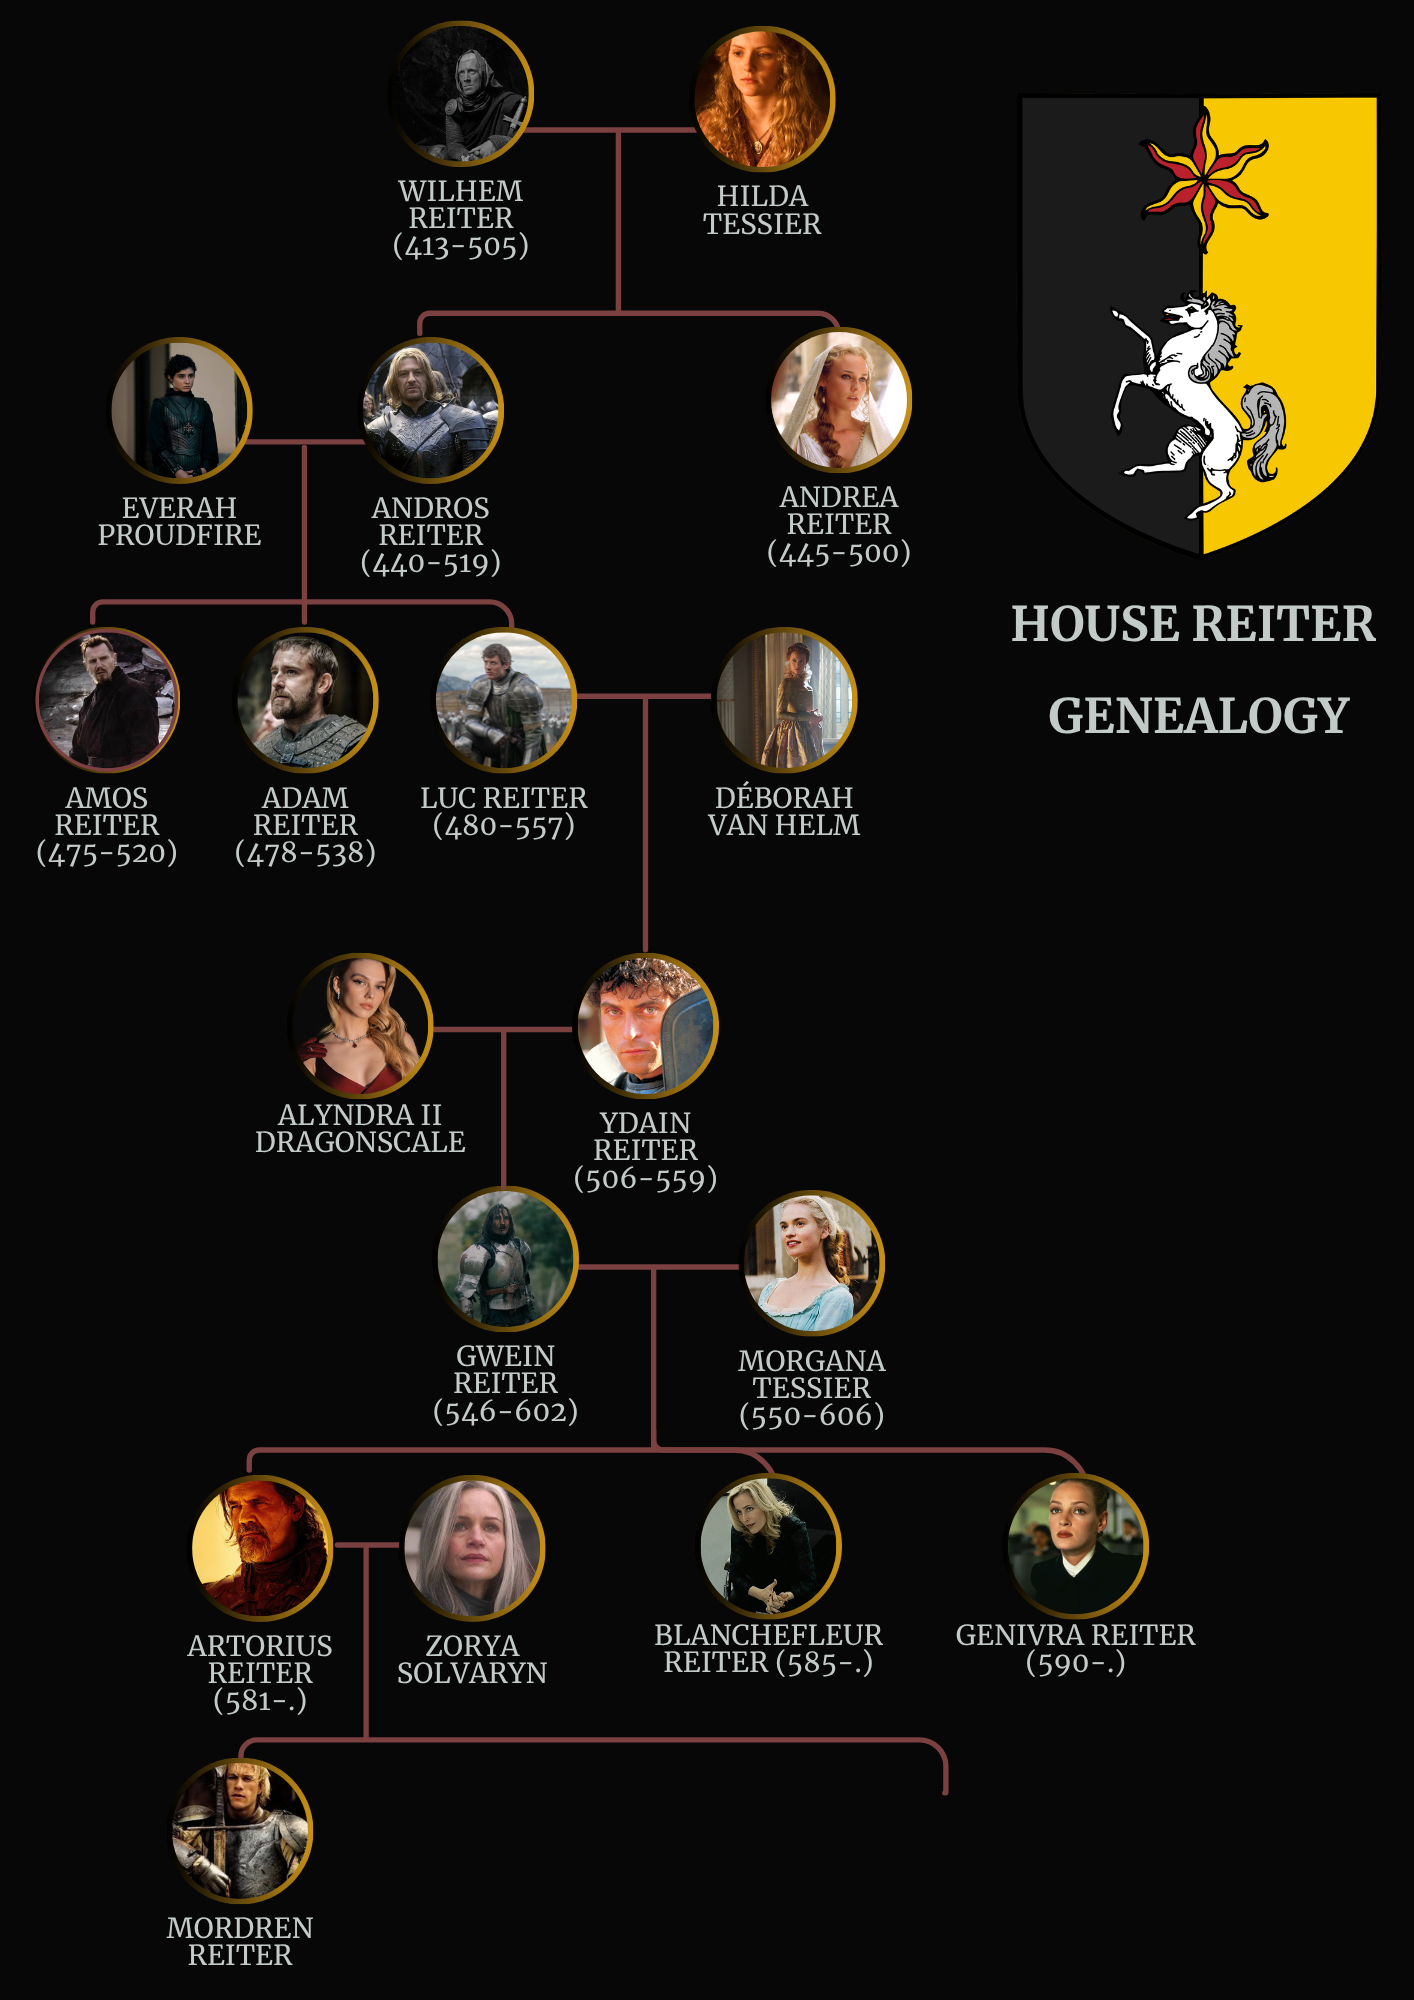
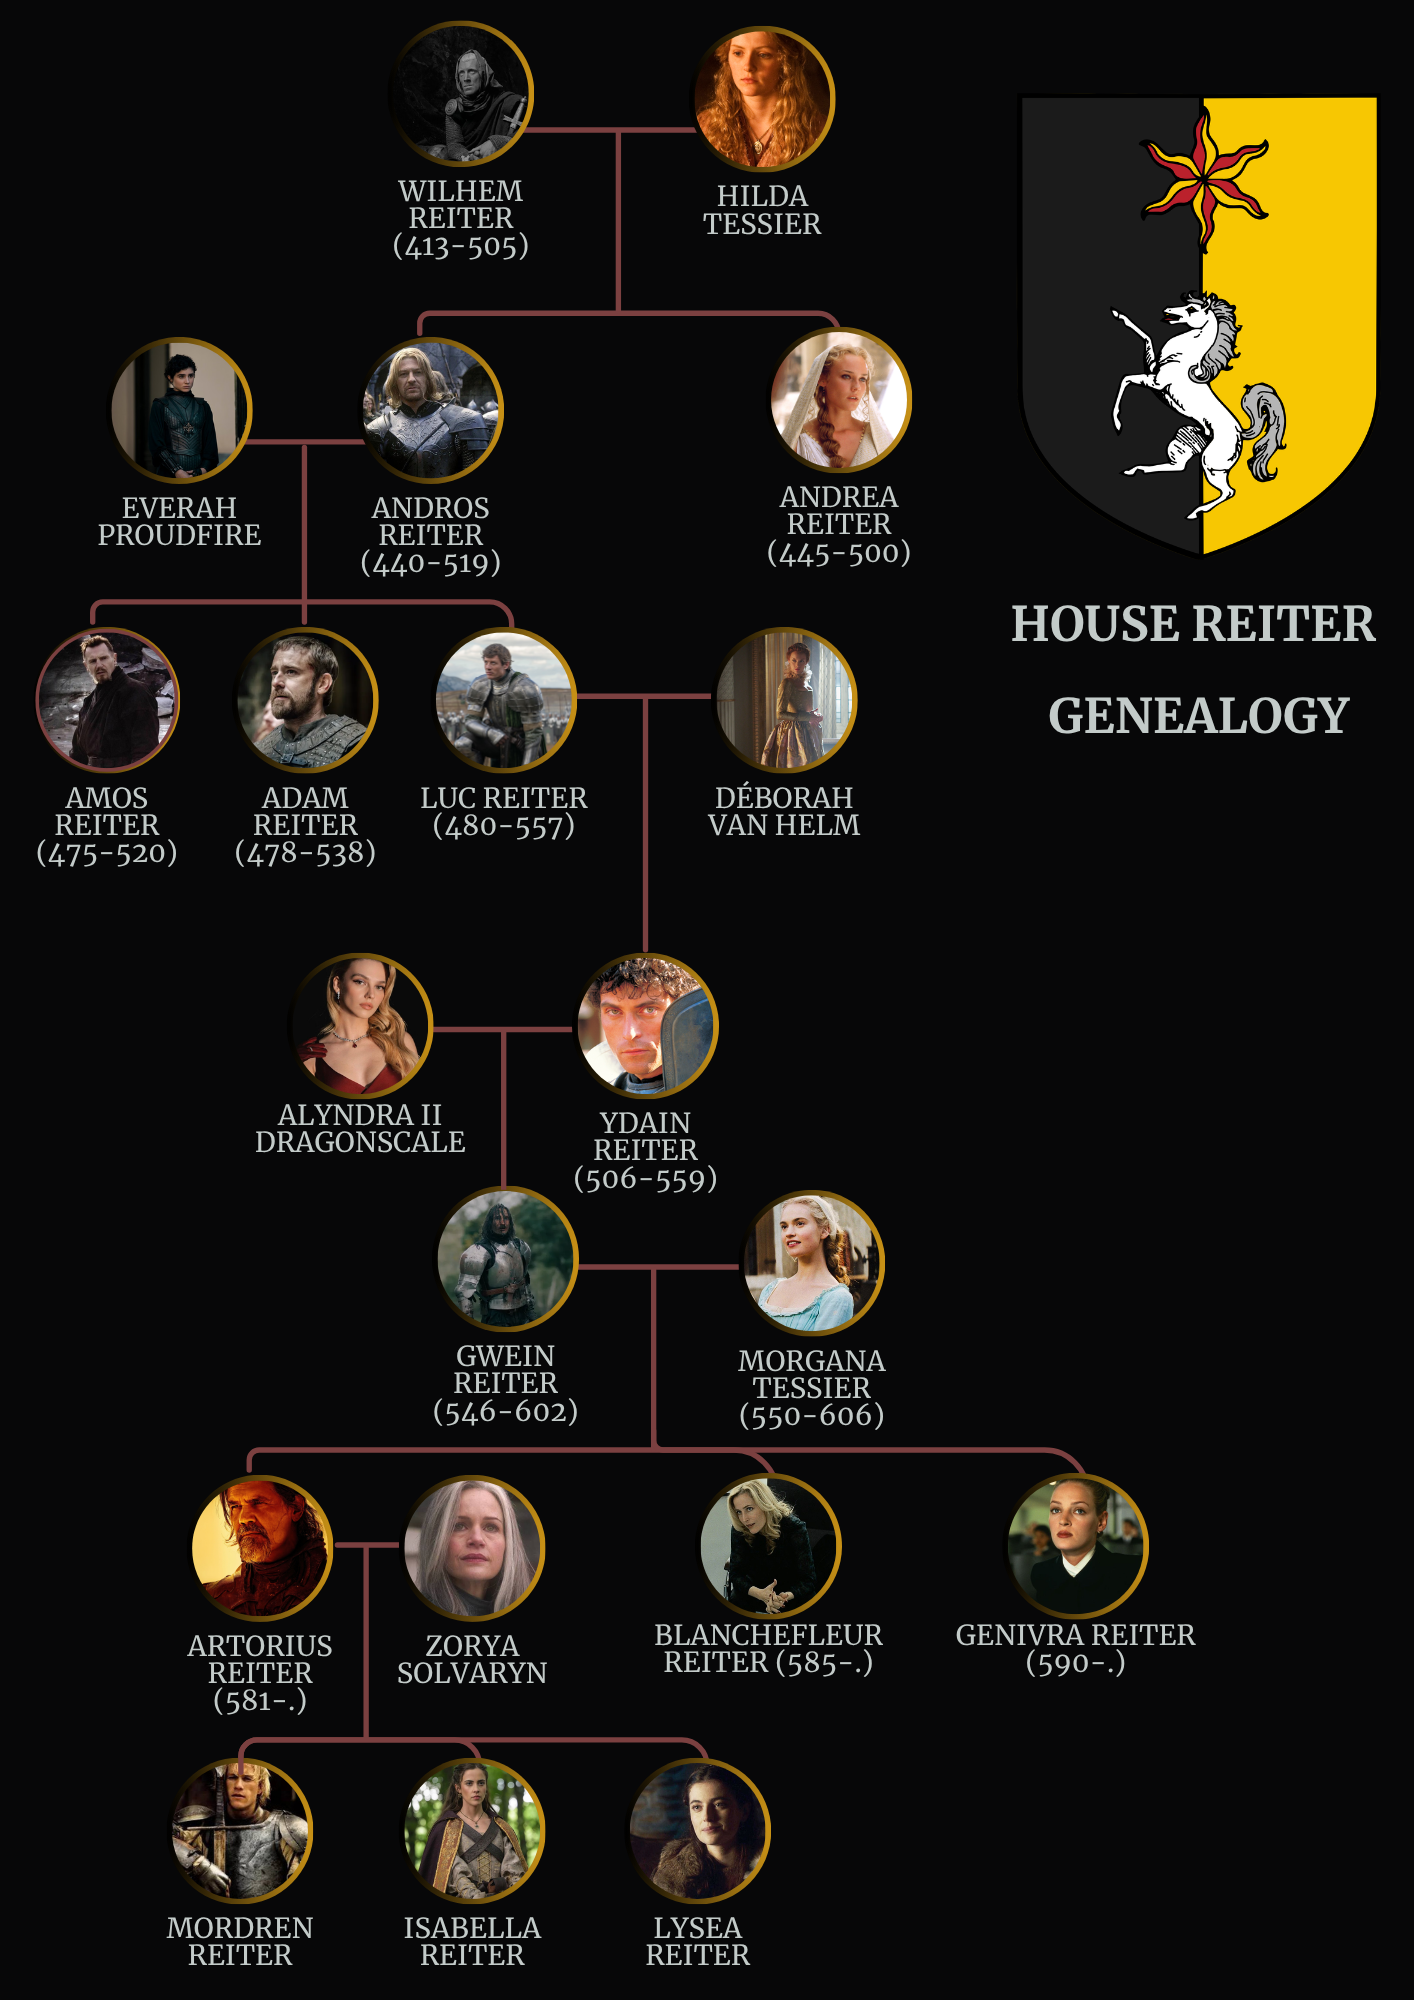
update shushyu+aelys

Changed region(s): [[0.4356, 0.868, 0.5601, 0.992], [0.2801, 0.868, 0.4045, 0.992], [0.6535, 0.868, 0.6846, 0.899]]

diff --git a/index.html b/index.html
@@ -612,25 +612,25 @@ Mais les mauvaises pensées ne sont jamais loin, et alors que Lorianth brûle et
 
             <article class="character-card">
 
-                <img src="images/personnage-03.jpg" alt="">
+                <img src="images/Isabella.jpg" alt="">
 
                 <div class="character-content">
 
                     <span class="character-role">
 
-                        Rôle à définir
+                        Benjamine <i>Joué par Aelys</i>
 
                     </span>
 
                     <h3>
 
-                        à pourvoir
+                        Isabella Reiter
 
                     </h3>
 
                     <p>
 
-                        Rôle à définir
+                        Benjamine de la fratrie, branche principale, guérisseuse.
 
                     </p>
 
@@ -642,25 +642,25 @@ Mais les mauvaises pensées ne sont jamais loin, et alors que Lorianth brûle et
 
             <article class="character-card">
 
-                <img src="images/personnage-04.jpg" alt="">
+                <img src="images/Lyséa.jpg" alt="">
 
                 <div class="character-content">
 
                     <span class="character-role">
 
-                        Rôle à définir
+                        Cadette <i>Joué par Shushyu</i>
 
                     </span>
 
                     <h3>
 
-                        à pourvoir
+                        Lyséa Reiter
 
                     </h3>
 
                     <p>
 
-                        Rôle à définir
+                        Cadette de la fratrie, branche principale, chouchoute. 
 
                     </p>
 
